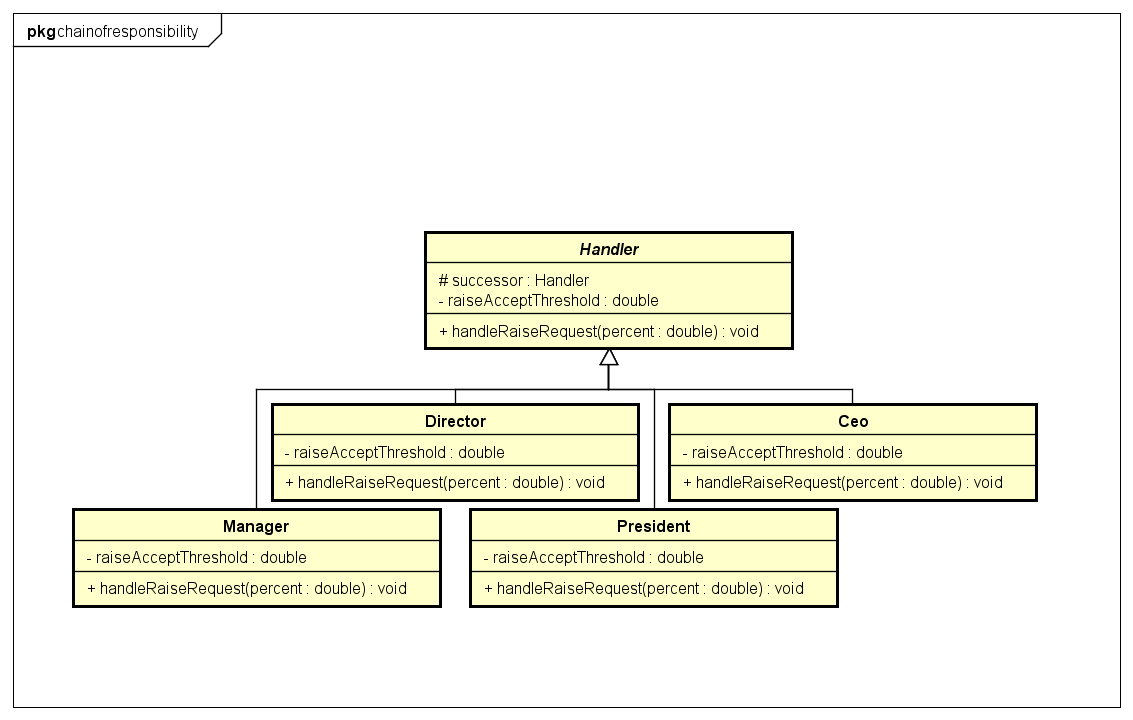
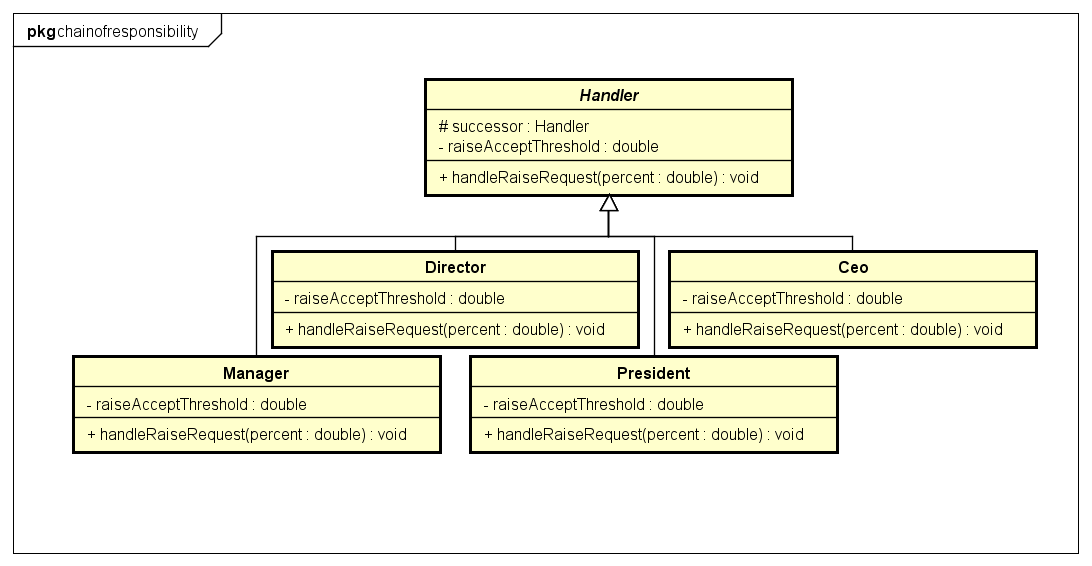
DP10: added some comments and cropped UML image

diff --git a/DP10_chainofresponsibility/src/chainofresponsibility/Handler.java b/DP10_chainofresponsibility/src/chainofresponsibility/Handler.java
@@ -1,13 +1,20 @@
 package chainofresponsibility;
 
+/**
+ * This class implements the Chain of Command design pattern. If one of it's
+ * subclasses cannot accept a pay raise request, it will forward the request to
+ * it's successor.
+ */
 public abstract class Handler {
 
     protected Handler successor;
-    
+
     public void setSuccessor(Handler successor) {
         this.successor = successor;
     }
 
+    // If a succeossor is not appointed, it is the last object in the chain and 
+    // cannot be handled any further.
     public void handleRaiseRequest(double percent) {
         if (successor != null) {
             successor.handleRaiseRequest(percent);

diff --git a/DP10_chainofresponsibility/src/chainofresponsibility/Ceo.java b/DP10_chainofresponsibility/src/chainofresponsibility/Ceo.java
@@ -3,7 +3,8 @@ package chainofresponsibility;
 public class Ceo extends Handler {
     
     private final double raiseAcceptThreshold = 15.0;
-
+    
+    // If the raise request exceeds the raiseAcceptThreshold, forward the request to a successor
     @Override
     public void handleRaiseRequest(double percent) {
         if (percent <= raiseAcceptThreshold) {

diff --git a/DP10_chainofresponsibility/src/chainofresponsibility/President.java b/DP10_chainofresponsibility/src/chainofresponsibility/President.java
@@ -4,6 +4,7 @@ public class President extends Handler {
     
     private final double raiseAcceptThreshold = 10.0;
     
+    // If the raise request exceeds the raiseAcceptThreshold, forward the request to a successor
     @Override
     public void handleRaiseRequest(double percent) {
         if (percent <= raiseAcceptThreshold) {

diff --git a/DP10_chainofresponsibility/src/chainofresponsibility/Director.java b/DP10_chainofresponsibility/src/chainofresponsibility/Director.java
@@ -4,6 +4,7 @@ public class Director extends Handler {
     
     private final double raiseAcceptThreshold = 5.0;
     
+    // If the raise request exceeds the raiseAcceptThreshold, forward the request to a successor
     @Override
     public void handleRaiseRequest(double percent) {
         if (percent <= raiseAcceptThreshold) {

diff --git a/DP10_chainofresponsibility/src/chainofresponsibility/Manager.java b/DP10_chainofresponsibility/src/chainofresponsibility/Manager.java
@@ -4,6 +4,7 @@ public class Manager extends Handler {
 
     private final double raiseAcceptThreshold = 2.0;
 
+    // If the raise request exceeds the raiseAcceptThreshold, forward the request to a successor
     @Override
     public void handleRaiseRequest(double percent) {
         if (percent <= raiseAcceptThreshold) {
